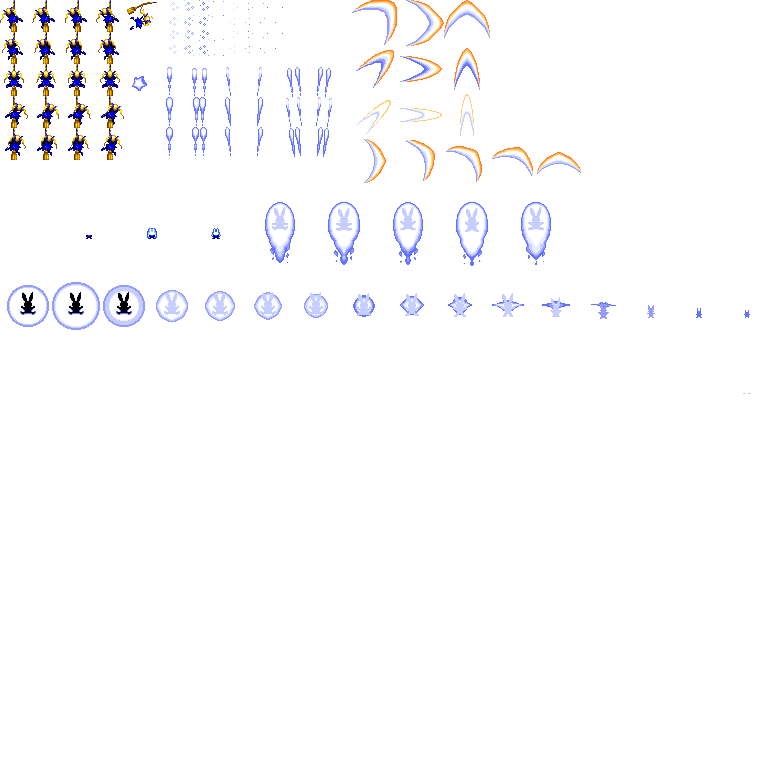
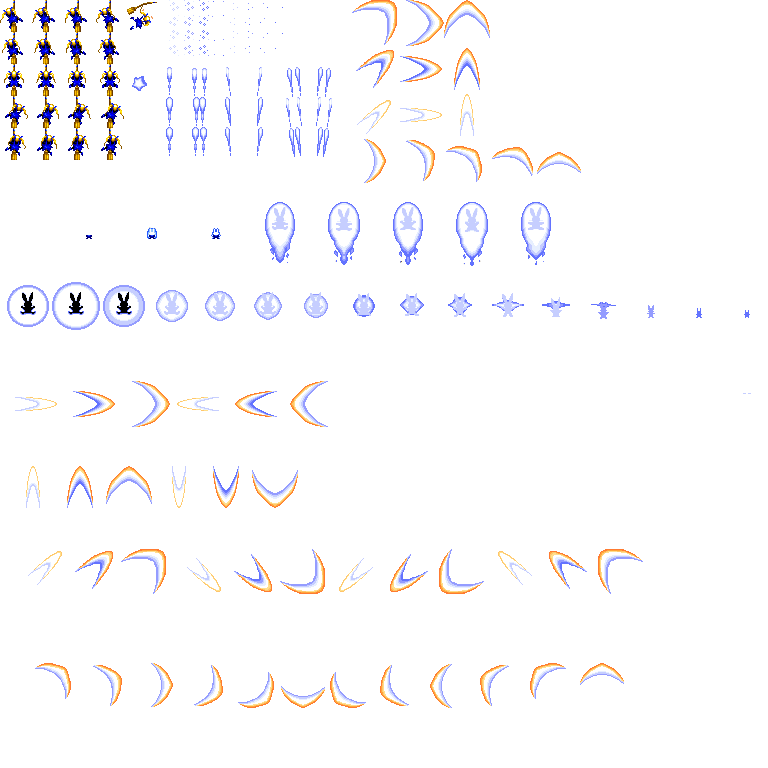
implemented some part of marion bomb

diff --git a/GunBird - CodedDreams/ModuleInput.cpp b/GunBird - CodedDreams/ModuleInput.cpp
@@ -145,13 +145,17 @@ update_status ModuleInput::PreUpdate()
 
 			App->audio->Play(App->audio->EFFECT);
 		}
-		if (keyboard[SDL_SCANCODE_G] == KEY_STATE::KEY_DOWN && App->player1->IsEnabled() && App->player1->bombs > 0 && App->player1->bomb_attacking == false)
+		if (keyboard[SDL_SCANCODE_G] == KEY_STATE::KEY_DOWN && App->player1->IsEnabled() && App->player1->bombs < 10 && App->player1->bomb_attacking == false)
 		{
 			App->player1->bombs--;
 			App->player1->bomb_attacking = true;
 			App->player1->bomb_timer_start = SDL_GetTicks();
 			App->audio->Load(App->player1->character->bomb_path, App->audio->EFFECT);
 			App->audio->Play(App->audio->EFFECT);
+			App->particles->AddParticle(App->player1->character->bomb_north, App->player1->character->shot_lvl4, App->player1->position.x, App->player1->position.y, COLLIDER_PLAYER_SHOT);
+			App->particles->AddParticle(App->player1->character->bomb_south, App->player1->character->shot_lvl4, App->player1->position.x, App->player1->position.y, COLLIDER_PLAYER_SHOT);
+			App->particles->AddParticle(App->player1->character->bomb_east, App->player1->character->shot_lvl4, App->player1->position.x, App->player1->position.y, COLLIDER_PLAYER_SHOT);
+			App->particles->AddParticle(App->player1->character->bomb_west, App->player1->character->shot_lvl4, App->player1->position.x, App->player1->position.y, COLLIDER_PLAYER_SHOT);
 		}
 
 		//Player 2

diff --git a/GunBird - CodedDreams/ModuleMarion.cpp b/GunBird - CodedDreams/ModuleMarion.cpp
@@ -76,6 +76,35 @@ ModuleMarion::ModuleMarion()
 	highscore_anim.PushBack({ 66, 33, 23, 32 });
 	highscore_anim.PushBack({ 99, 33, 23, 32 });
 	highscore_anim.speed = 0.1f;
+
+	//Bomb animations
+	bomb_north.anim.PushBack({ 10, 466, 42, 46 });
+	bomb_north.anim.PushBack({ 57, 466, 42, 46 });
+	bomb_north.anim.PushBack({ 106, 466, 42, 46 });
+	bomb_north.anim.speed = 0.2f;
+	bomb_north.anim.loop = false;
+	bomb_north.speed.y = -3;
+
+	bomb_south.anim.PushBack({ 156, 466, 42, 46 });
+	bomb_south.anim.PushBack({ 203, 466, 42, 46 });
+	bomb_south.anim.PushBack({ 252, 466, 42, 46 });
+	bomb_south.anim.speed = 0.2f;
+	bomb_south.anim.loop = false;
+	bomb_south.speed.y = 3;
+
+	bomb_east.anim.PushBack({ 177, 381, 42, 46 });
+	bomb_east.anim.PushBack({ 235, 381, 42, 46 });
+	bomb_east.anim.PushBack({ 290, 381, 42, 46 });
+	bomb_east.anim.speed = 0.2f;
+	bomb_east.anim.loop = false;
+	bomb_east.speed.x = -3;
+
+	bomb_west.anim.PushBack({ 15, 381, 42, 46 });
+	bomb_west.anim.PushBack({ 73, 381, 42, 46 });
+	bomb_west.anim.PushBack({ 128, 381, 42, 46 });
+	bomb_west.anim.speed = 0.2f;
+	bomb_west.anim.loop = false;
+	bomb_west.speed.x = 3;
 }
 
 ModuleMarion::~ModuleMarion()
@@ -118,4 +147,3 @@ bool ModuleMarion::CleanUp()
 
 	return ret;
 }
-	

diff --git a/GunBird - CodedDreams/ModuleCharacter.h b/GunBird - CodedDreams/ModuleCharacter.h
@@ -7,6 +7,7 @@
 #include "p2Point.h"
 #include "Application.h"
 #include "ModuleRender.h"
+#include "ModuleParticles.h"
 
 #define CHARACTER_SPEED 3
 
@@ -21,6 +22,7 @@ public:
 
 	virtual bool Start() = 0;
 	virtual bool CleanUp() = 0;
+
 
 public:
 
@@ -57,6 +59,15 @@ public:
 	Particle* shot_particle_lvl4;
 	Particle* shot_particle_lvl4_left;
 	Particle* shot_particle_lvl4_right;
+
+	Particle bomb_north;
+	Particle bomb_south;
+	Particle bomb_east;
+	Particle bomb_west;
+	Particle bomb_north_east;
+	Particle bomb_north_weast;
+	Particle bomb_south_east;
+	Particle bomb_south_west;
 };
 
 #endif // !__MODULE_CHARACTER_H__

diff --git a/GunBird - CodedDreams/ModulePlayer.cpp b/GunBird - CodedDreams/ModulePlayer.cpp
@@ -143,10 +143,14 @@ update_status Player::Update()
 		}
 
 		//Bomb system
-		if (bomb_timer_now > bomb_timer_total && bomb_attacking)
+		if (bomb_attacking)
 		{
-			bomb_timer_start = SDL_GetTicks();
-			bomb_attacking = false;
+			if (bomb_timer_now > bomb_timer_total)
+			{
+				
+				bomb_timer_start = SDL_GetTicks();
+				bomb_attacking = false;
+			}
 		}
 
 		//Update collider position

diff --git a/GunBird - CodedDreams/ModuleMarion.h b/GunBird - CodedDreams/ModuleMarion.h
@@ -23,6 +23,9 @@ public:
 	Animation stele2;
 	Animation stele3;
 
+	//Bomb animations;
+
+
 };
 
 #endif
